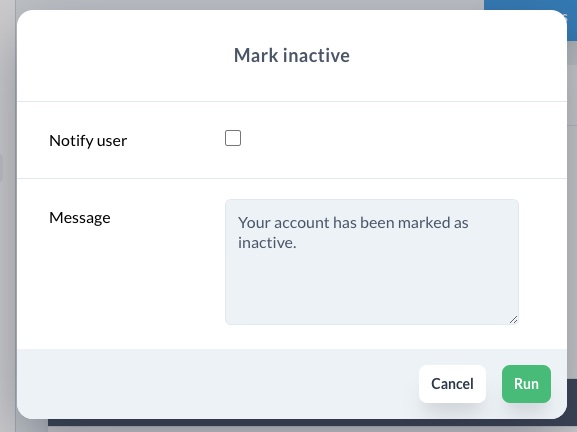
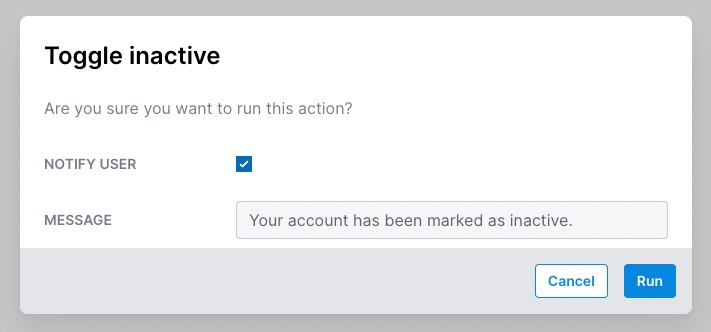
update action screenshots

diff --git a/docs/2.0/actions.md b/docs/2.0/actions.md
@@ -10,15 +10,15 @@ For example, you might want to mark a user as active/inactive and optionally sen
 
 Once you attach an action to a resource using the `action` method, it will appear in the **Actions** dropdown. By default, actions appear on the `Index`, `Show`, and `Edit` views. Versions previous to 2.9 would only display the actions on the `Index` and `Show` views.
 
-<img :src="('/assets/img/actions/actions-dropdown.jpg')" alt="Actions dropdown" class="border mb-4" />
+![Actions dropdown](/assets/img/actions/actions-dropdown.gif)
 
 ## Overview
 
 You generate one running `bin/rails generate avo:action toggle_active`, creating an action configuration file.
 
 ```ruby
-class ToggleActive < Avo::BaseAction
-  self.name = 'Toggle active'
+class ToggleInactive < Avo::BaseAction
+  self.name = 'Toggle inactive'
 
   field :notify_user, as: :boolean, default: true
   field :message, as: :text, default: 'Your account has been marked as inactive.'
@@ -49,7 +49,7 @@ field :notify_user, as: :boolean
 field :message, as: :textarea, default: 'Your account has been marked as inactive.'
 ```
 
-<img :src="('/assets/img/actions.jpg')" alt="Avo actions" class="border mb-4" />
+![Actions](/assets/img/actions/action-fields.jpg)
 
 The `handle` method is where the magic happens. That is where you put your action logic. In this method, you will have access to the selected `models` (if there's only one, it will be automatically wrapped in an array) and the values passed to the `fields`.
 
@@ -97,25 +97,6 @@ The default response is to reload the page and show the _Action ran successfully
 ### Message responses
 
 You will have four message response methods at your disposal `succeed`, `fail`, `warn`, and `inform`. These will render the user green, red, orange, and blue alerts.
-
-```ruby{6,10}
-def handle(**args)
-  models = args[:models]
-
-  models.each do |model|
-    if model.admin?
-      fail "Can't mark inactive! The user is an admin."
-    else
-      model.update active: false
-
-      succeed "Done! User marked as inactive!"
-    end
-  end
-end
-```
-
-<img :src="('/assets/img/actions/actions-succeed-message.jpg')" alt="Avo succeed message" class="border inline-block mr-2" />
-<img :src="('/assets/img/actions/actions-fail-message.jpg')" alt="Avo fail message" class="border inline-block" />
 
 ```ruby{4-7}
 def handle(**args)
